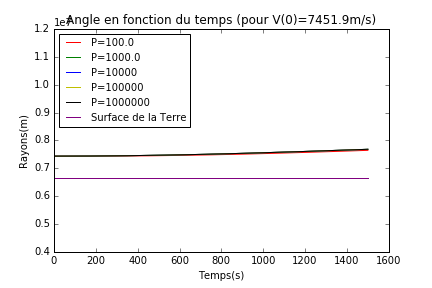
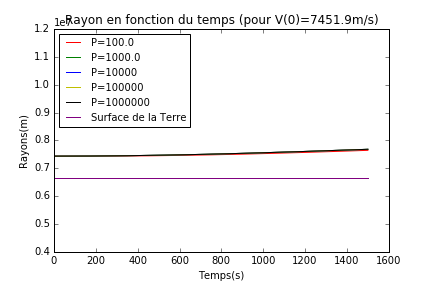
Good legends

Changed region(s): [[0.1505, 0.0312, 0.8727, 0.0938]]

diff --git a/pi.py b/pi.py
@@ -49,7 +49,7 @@ def trace1(L1,L2,L3,L4,L5,R,n): #cette fonction permet de ne pas réecrire 20 li
         plt.plot(L3[0],L3[1],'b',label="P="+str(n))
         plt.plot(L4[0],L4[1],'y',label="P="+str(10*n))
         plt.plot(L5[0],L5[1],'black',label="P="+str(100*n))
-        plt.title("Angle en fonction du temps (pour V(0)="+str(V[L1[2]])+"m/s)")
+        plt.title("Rayon en fonction du temps (pour V(0)="+str(V[L1[2]])+"m/s)")
     else:
         plt.plot(L1[0],L1[1],'r',label="V(0)="+str(V[L1[2]])+"m/s")
         plt.plot(L2[0],L2[1],'g',label="V(0)="+str(V[L2[2]])+"m/s")
@@ -246,7 +246,7 @@ def compare6(tf,n,i):   #trace les rayons et angles obtenus avec la solution exa
 def compare7(tf,n,i): #compare les solutions obtenues avec les 3 méthodes pour une CI donnée
     T,Y0,A0=recurrence(tf,n,i)
     T1,Y1,A1=solscipy(tf,n,i)
-    T2,Y2=solexacte(tf,n,i)
+    T2,Y2,A2=solexacte(tf,n,i)
     R=[Rt for i in range(len(T))]
     plt.plot(T,Y0,'r',label="Euler")
     plt.plot(T2,Y2,'b',label="Solution exacte")
@@ -259,7 +259,7 @@ def compare7(tf,n,i): #compare les solutions obtenues avec les 3 méthodes pour 
     plt.figure(2)
     plt.plot(T1,Y1,'g',label="Odeint")
     plt.plot(T2,Y2,'b',label="Solution exacte")
-    plt.plot(T1,R,'purple',label="Surface de la Terre")
+    plt.plot(T,R,'purple',label="Surface de la Terre")
     plt.xlabel("Temps(s)")
     plt.ylabel("Rayons(m)")
     plt.title("V(0)="+str(V[i])+"m/s")
